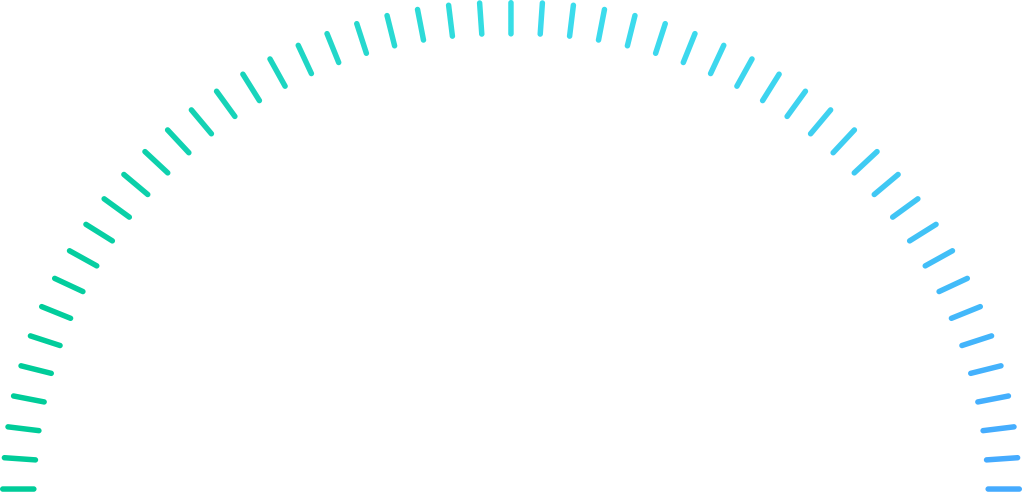
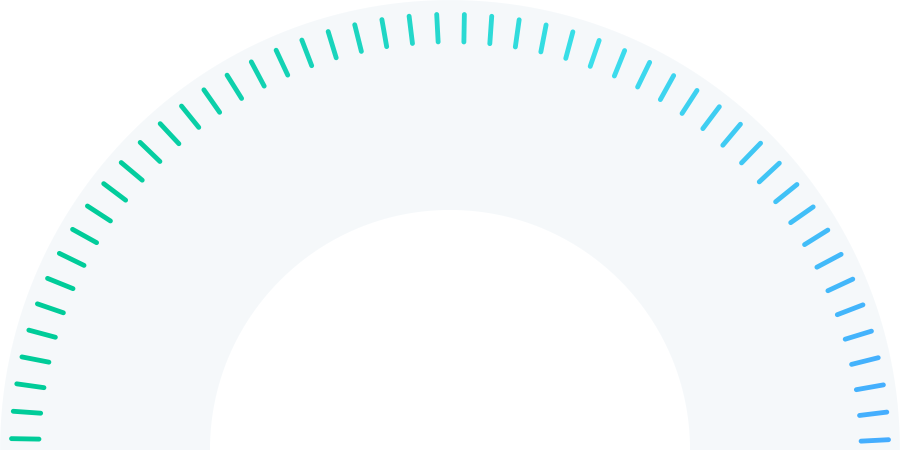
调整

diff --git a/src/elements/horizontalBar.js b/src/elements/horizontalBar.js
@@ -93,31 +93,8 @@ export default class HorizontalBar extends React.Component {
                 if (stack) {
                     lastHeight = rectHight + lastHeight;
                 } else {
-                    lastHeight = rectHight;
+                    lastHeight = 0;
                 }
-
-                // numlength = mapItem.data[i].toString().length;
-                // textX = xNum + rectWidth / 2 - 1 + offsetLength;
-                // textY = barCanvasHeight + 10 - lastHeight + numlength * preTextWidth / 2;
-                // textColor = 'white';
-                // if (numlength * 10 > rectHight) {
-                //     textY = barCanvasHeight + 4 - lastHeight - numlength * preTextWidth / 2;
-                //     textColor = 'black';
-                // }
-
-                // if (!stack) {
-                //     lastHeight = 0;
-                // }
-                // barViewList.push(
-                //     <G rotate="-90" origin={`${textX},${textY + 5}`} >
-                //         < SvgText
-                //             fill={textColor}
-                //             x={textX}
-                //             y={textY}
-                //             fontSize="10"
-                //             textAnchor="middle">{mapItem.data[i]}</SvgText >
-                //     </G>
-                // )
             })
         }
         return barViewList;
@@ -188,17 +165,19 @@ export default class HorizontalBar extends React.Component {
     }
 
     createXValueTitle(props) {
-        let { viewWidth, xAxis, offsetLength } = props
-        this.xValueTitle = <Text style={{
-            fontSize: 9,
-            width: 100,
-            height: 10,
-            textAlign: 'center',
-            position: 'absolute',
-            bottom: 5,
-            left: (viewWidth - 50 - offsetLength) / 2,
-            textAlignVertical: 'center'
-        }}>{xAxis.name}</Text>;
+        let { viewWidth, xAxis, offsetLength } = props;
+        if (xAxis.name) {
+            this.xValueTitle = <Text style={{
+                fontSize: 9,
+                width: 100,
+                height: 10,
+                textAlign: 'center',
+                position: 'absolute',
+                bottom: 5,
+                left: (viewWidth - 50 - offsetLength) / 2,
+                textAlignVertical: 'center'
+            }}>{xAxis.name}</Text>;
+        }
     }
 
     clickItemView(i, clickAreWidth, location) {
@@ -263,15 +242,16 @@ export default class HorizontalBar extends React.Component {
         let { valueInterval, svgHeight, svgWidth, viewHeight,
             barCanvasHeight, xAxis, rectWidth, rectNum,
             interWidth, offsetLength, intervalNum } = this.props;
+        alert(offsetLength);
         return (
-            <View style={{ flex: 1, backgroundColor: 'white', height: viewHeight, width: svgWidth }}>
+            <View style={{ flex: 1, backgroundColor: 'yellow', height: viewHeight, width: svgWidth }}>
                 <View style={{ flex: 0 }}>
                     < Svg width={svgWidth} height={svgHeight} >
                         {DrawXYAxisLine(barCanvasHeight, svgWidth, true, valueInterval)}
                         {this.renderBarItem()}
                     </Svg>
                 </View>
-                <View style={{ width: svgWidth, height: svgHeight, position: 'absolute', top: 10, right: 0, flexDirection: 'row', paddingLeft: offsetLength }}>
+                <View style={{ width: svgWidth, height: svgHeight, position: 'absolute', top: 10, right: 0, flexDirection: 'row', paddingLeft: offsetLength, backgroundColor: 'pink' }}>
                     {this.renderClickItemView()}
                 </View>
                 {DrawYXAxisValue(xAxis, true, svgWidth, rectWidth * rectNum + 2 * interWidth, offsetLength, intervalNum)}

diff --git a/src/elements/gauge.js b/src/elements/gauge.js
@@ -46,27 +46,12 @@ export default class Gauge extends Component {
     }
 
 
-    startAnimation() {
-        let precent = 0
-        if (this.state.finished == undefined) {
-            precent = 0;
-        } else if (this.state.finished > 100) {
-            precent = 1;
-        } else {
-            precent = this.state.finished / 100
-        }
-
-        this.state.rotateValue.setValue(0);//弹动没有变化
-        Animated.timing(this.state.rotateValue, {
-            delay: 100,
-            toValue: precent,        //属性目标值
-            duration: 3000    //动画执行时间
-        }).start();
-    }
-
     componentDidMount() {
         let { max, data } = this.state;
-        let precent = max / 100 * data.value
+        let precent = max / 100 * data.value;
+        if (precent > 100) {
+            precent = 100;
+        }
         Animated.timing(this.rotateValue, {
             delay: 100,
             toValue: precent,        //属性目标值
@@ -77,15 +62,14 @@ export default class Gauge extends Component {
     render() {
 
         let { imageWidth, viewHeight, viewWidth, aLength, data } = this.state;
+        let innerR = imageWidth * 40 / 135;
         return (
             <View style={[{ flex: 0, alignItems: 'center', backgroundColor: 'white', paddingTop: 5 }, this.props.style]}>
 
                 <View style={{
-                    width: imageWidth, height: imageWidth / 2 + 5,
-                    position: 'absolute', top: 5, alignItems: 'center',
-                    borderTopRightRadius: imageWidth / 2, borderTopLeftRadius: imageWidth / 2,
-                    backgroundColor: '#f5f8fa',
-                    paddingBottom: 5
+                    width: imageWidth, height: imageWidth / 2,
+                    position: 'absolute', top: (viewHeight - imageWidth / 2 - 5) / 2, alignItems: 'center',
+                    justifyContent: 'flex-end'
                 }}>
                     <Image
                         style={{ width: imageWidth, height: imageWidth / 2, position: 'absolute' }}
@@ -102,9 +86,6 @@ export default class Gauge extends Component {
                         style={{
                             width: imageWidth - 80,
                             height: 10,
-                            position: 'absolute',
-                            left: 35,
-                            bottom: 7,
                             flexDirection: 'row',
                             transform: [
                                 {
@@ -119,7 +100,8 @@ export default class Gauge extends Component {
                                 height: 10,
                             }} />
                     </Animated.View>
-                    <View style={{ position: 'absolute', width: 160, height: 80, borderTopRightRadius: 80, borderTopLeftRadius: 80, bottom: 5, backgroundColor: 'white', alignItems: 'center', justifyContent: 'center' }} >
+
+                    <View style={{ position: 'absolute', width: innerR * 2, height: innerR, borderTopRightRadius: innerR, borderTopLeftRadius: innerR, bottom: 0, backgroundColor: 'white', alignItems: 'center', justifyContent: 'flex-end' }} >
                         <Text style={{ fontSize: 40, color: '#228EE6', textAlign: 'center' }}>{data.value}</Text>
                         <Text style={{ fontSize: 13, color: '#3A3F00', textAlign: 'center' }}>{data.name}</Text>
                     </View>

diff --git a/src/chartUtils.js b/src/chartUtils.js
@@ -53,6 +53,7 @@ export function DrawXYAxisLine(yHeight, lineLight, horizontal, intervalNum = 3, 
     for (let i = 0; i <= intervalNum; i++) {
         if (horizontal) {
             perLine = <Line
+                key={'line' + i}
                 x1='0'
                 y1={10 + interval * i}
                 x2={lineLight}
@@ -62,6 +63,7 @@ export function DrawXYAxisLine(yHeight, lineLight, horizontal, intervalNum = 3, 
             />
         } else {
             perLine = <Line
+                key={'line' + i}
                 x1={2 + interval * i}
                 y1={offSetNum}
                 x2={2 + interval * i}

diff --git a/src/globalVariable.js b/src/globalVariable.js
@@ -1,3 +1,13 @@
 
-const ColorList = ['#c23531', '#2f4554', '#61a0a8', '#d48265', '#91c7ae', '#749f83', '#ca8622', '#bda29a', '#6e7074', '#546570', '#c4ccd3'];
+const ColorList = ["#45abff",
+                    "#6be6c1",
+                    "#ffa51f",
+                    "#ffd64e",
+                    "#3fd183",
+                    "#6ea7c7",
+                    "#5b7cf4",
+                    "#00bfd5",
+                    "#8bc7ff",
+                    "#f48784",
+                    "#d25537"];
 export default ColorList;
